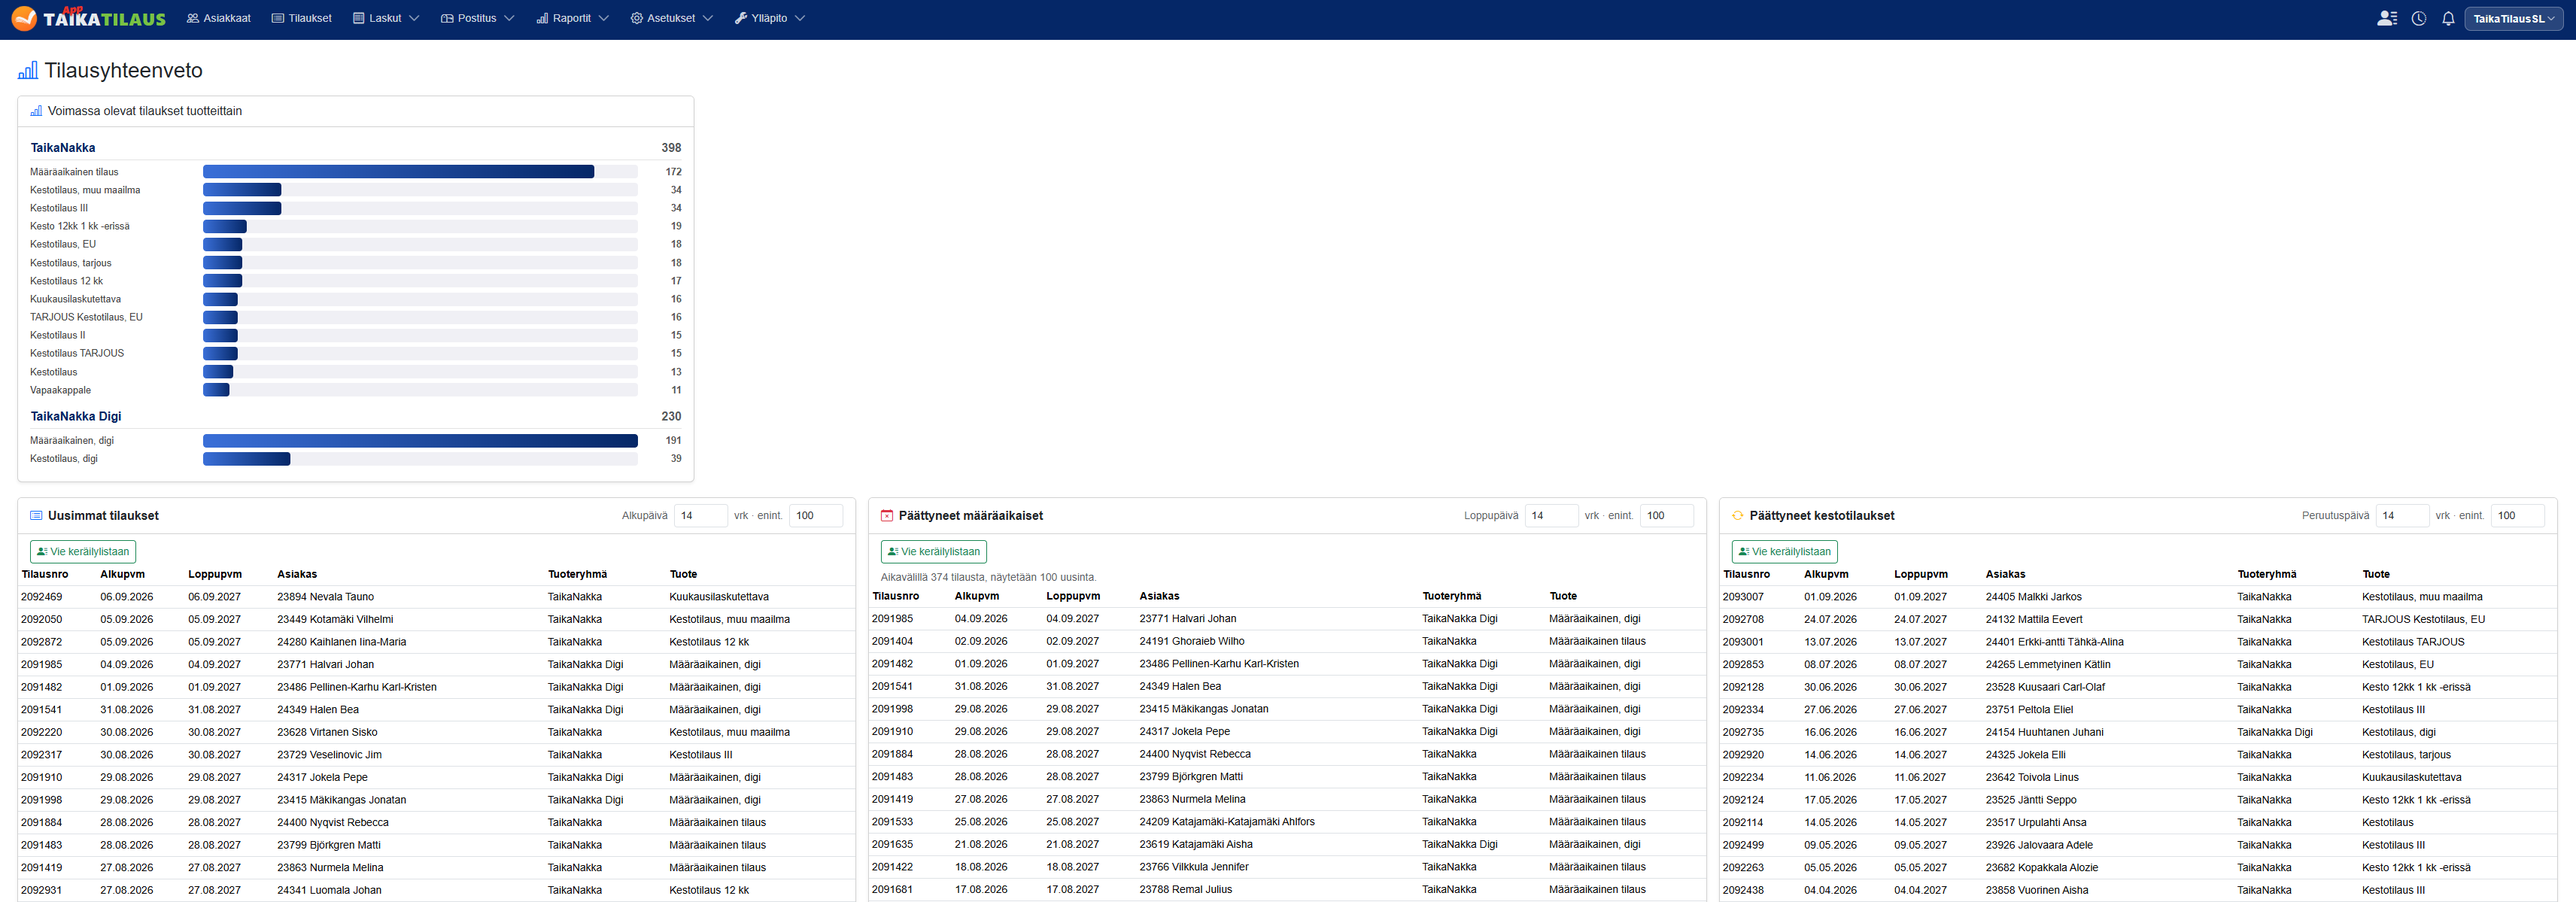
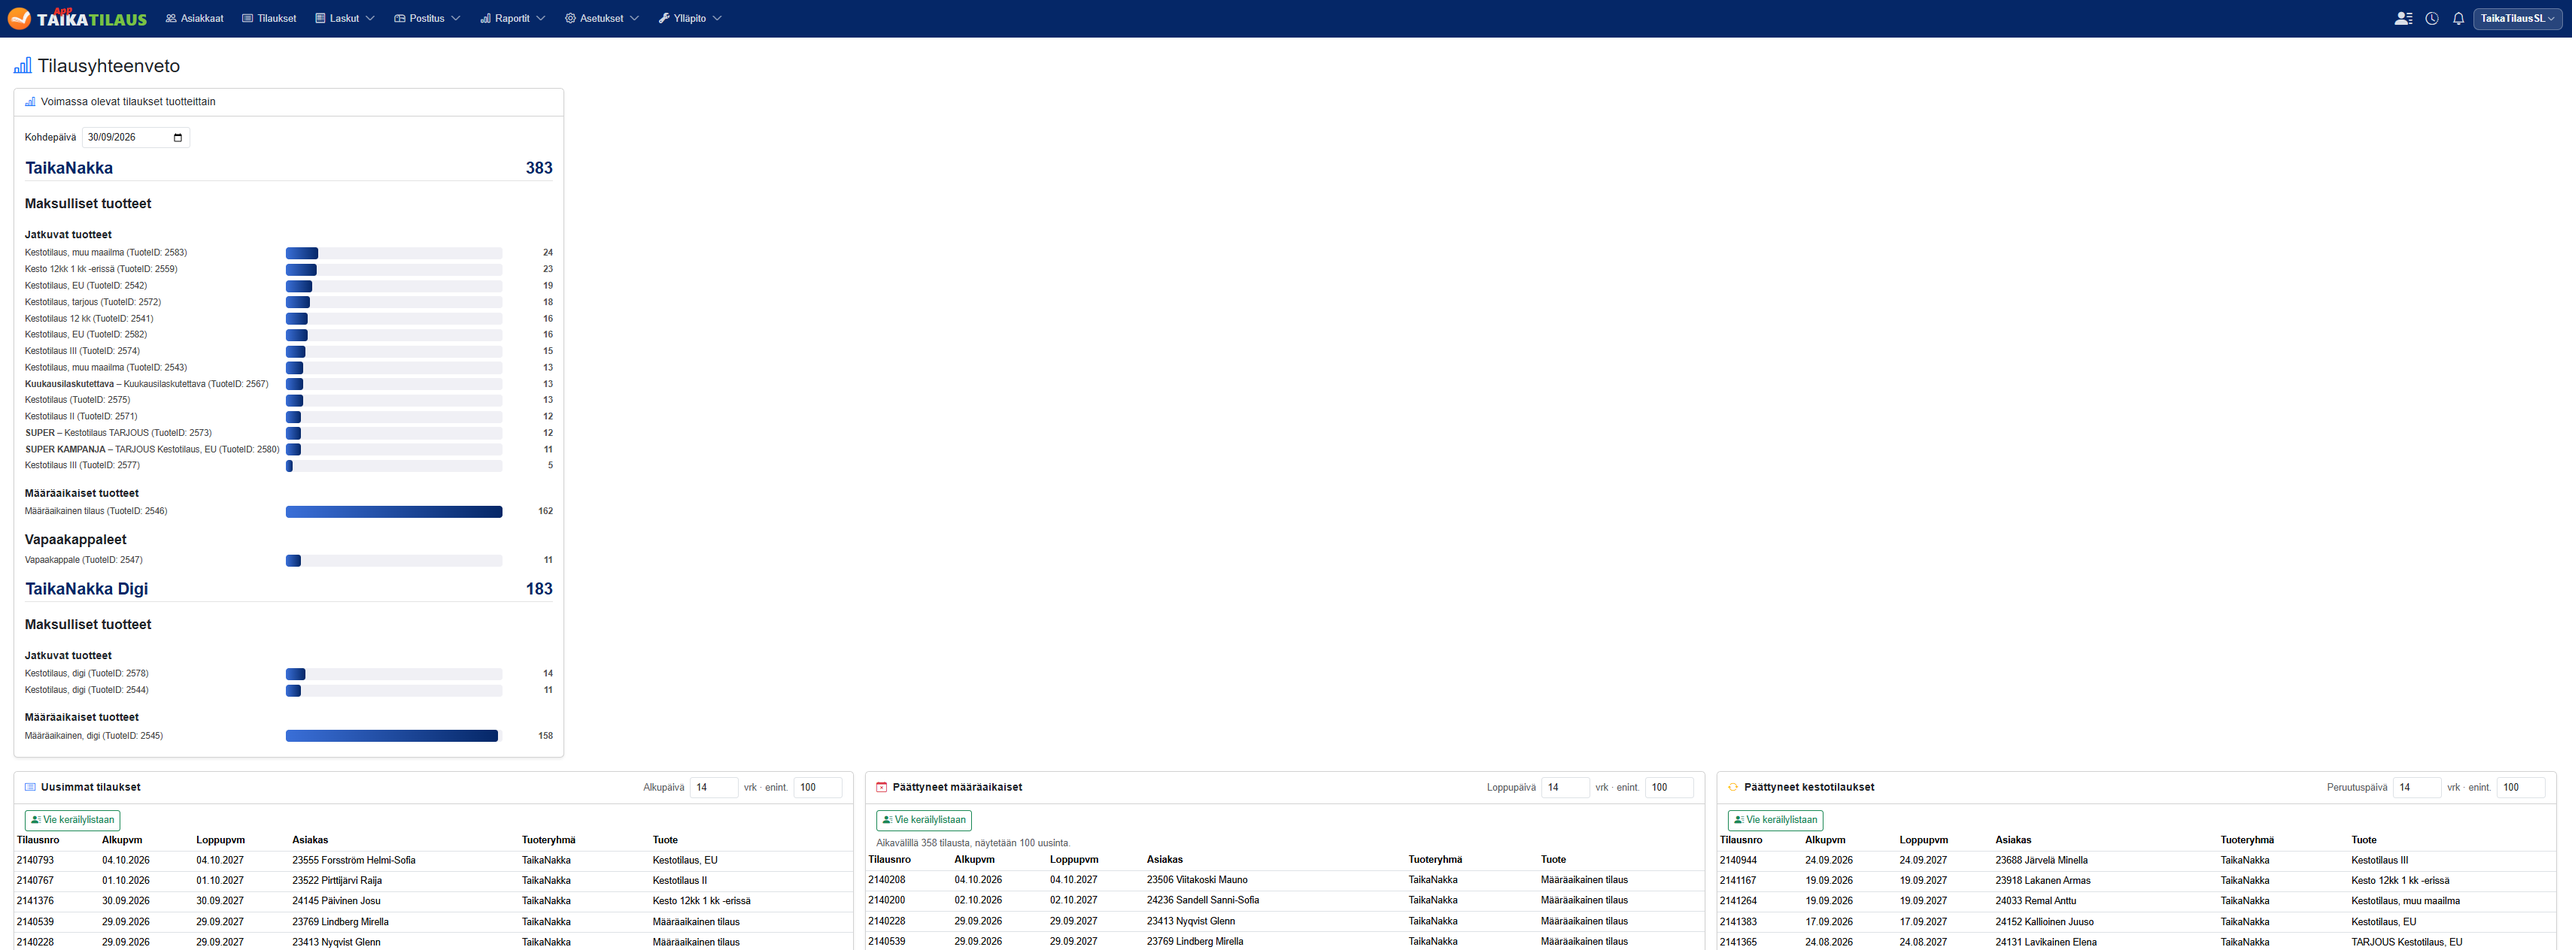
tilausyhteenveto kuvien päivitys

diff --git a/docs/uusi_versio/Raportit/tilausyhteenveto.md b/docs/uusi_versio/Raportit/tilausyhteenveto.md
@@ -13,11 +13,11 @@ Avaa sivu päävalikosta valitsemalla **Raportit → Tilausyhteenveto**.
 
 ## Voimassa olevat tilaukset tuotteittain
 
-**Voimassa olevat tilaukset tuotteittain** -osiossa tilaukset on ryhmitelty lehdittäin ja tuotteittain. Raportissa on kohdepäivä: voimassa olevat tilaukset lasketaan valitulle päivälle.
+**Voimassa olevat tilaukset tuotteittain** -osiossa tilaukset on ryhmitelty lehdittäin ja tuotteittain. Raportissa on kohdepäivä: voimassa olevat tilaukset lasketaan valitulle päivälle. Kohdepäivää voi muuttaa, jos haluaa tarkastella tilauksia tietyltä päivältä.
 
 Lehden nimen vieressä näkyy sen voimassa olevien tilausten kokonaismäärä. Jokaisella tuoterivillä näkyvät:
 
-- tuotteen nimi
+- tuotteen nimi (tuotteen nimen edessä on kampanjan nimi, jos sellainen on) sekä TuoteID
 - tilausmäärää havainnollistava palkki
 - tuotteen voimassa olevien tilausten lukumäärä.
 
